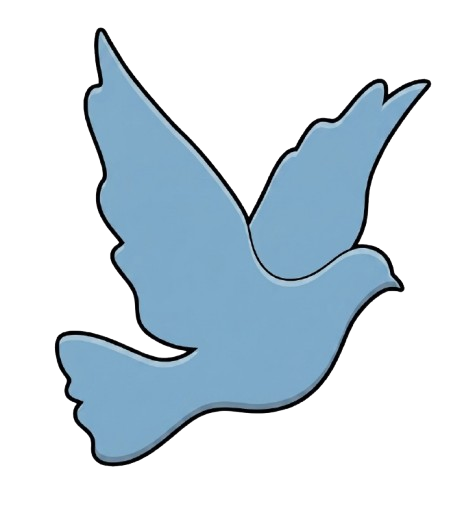
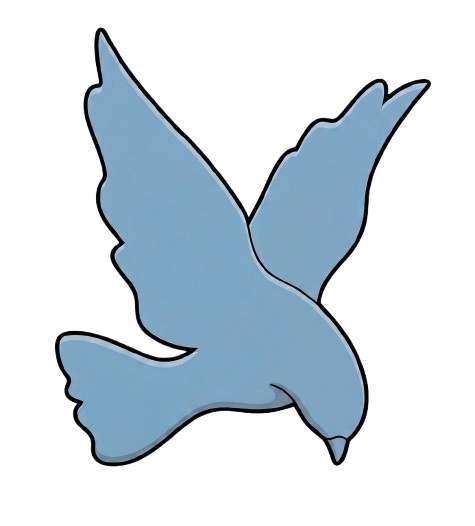
footer

Changed region(s): [[0.56, 0.4563, 0.8547, 0.8821], [0.2063, 0.0608, 0.2358, 0.0913]]

diff --git a/src/components/Footer.tsx b/src/components/Footer.tsx
@@ -1,57 +1,243 @@
-import logo from '../assets/images/logo.png';
+import logo from "../assets/images/logo.png";
+
+const RED = "#C8102E";
+
+function PhoneIcon({ className = "" }: { className?: string }) {
+  return (
+    <svg
+      viewBox="0 0 24 24"
+      fill="none"
+      stroke="currentColor"
+      strokeWidth="2"
+      strokeLinecap="round"
+      strokeLinejoin="round"
+      className={className}
+    >
+      <path d="M22 16.92v3a2 2 0 0 1-2.18 2 19.79 19.79 0 0 1-8.63-3.07 19.5 19.5 0 0 1-6-6 19.79 19.79 0 0 1-3.07-8.67A2 2 0 0 1 4.11 2h3a2 2 0 0 1 2 1.72c.127.96.361 1.903.7 2.81a2 2 0 0 1-.45 2.11L8.09 9.91a16 16 0 0 0 6 6l1.27-1.27a2 2 0 0 1 2.11-.45c.907.339 1.85.573 2.81.7A2 2 0 0 1 22 16.92z" />
+    </svg>
+  );
+}
+
+function MailIcon({ className = "" }: { className?: string }) {
+  return (
+    <svg
+      viewBox="0 0 24 24"
+      fill="none"
+      stroke="currentColor"
+      strokeWidth="2"
+      strokeLinecap="round"
+      strokeLinejoin="round"
+      className={className}
+    >
+      <rect x="2" y="4" width="20" height="16" rx="2" />
+      <path d="m22 6-10 7L2 6" />
+    </svg>
+  );
+}
+
+function ArrowIcon({ className = "" }: { className?: string }) {
+  return (
+    <svg
+      viewBox="0 0 24 24"
+      fill="none"
+      stroke="currentColor"
+      strokeWidth="2.4"
+      strokeLinecap="round"
+      strokeLinejoin="round"
+      className={className}
+    >
+      <path d="M5 12h14M13 6l6 6-6 6" />
+    </svg>
+  );
+}
+
+function XIcon({ className = "" }: { className?: string }) {
+  return (
+    <svg viewBox="0 0 24 24" fill="currentColor" className={className}>
+      <path d="M18.244 2.25h3.308l-7.227 8.26 8.502 11.24H16.17l-5.214-6.817L4.99 21.75H1.68l7.73-8.835L1.254 2.25H8.08l4.713 6.231zm-1.161 17.52h1.833L7.084 4.126H5.117z" />
+    </svg>
+  );
+}
+
+function YoutubeIcon({ className = "" }: { className?: string }) {
+  return (
+    <svg viewBox="0 0 24 24" fill="currentColor" className={className}>
+      <path d="M23.5 6.2a3.02 3.02 0 0 0-2.12-2.14C19.5 3.5 12 3.5 12 3.5s-7.5 0-9.38.56A3.02 3.02 0 0 0 .5 6.2 31.6 31.6 0 0 0 0 12a31.6 31.6 0 0 0 .5 5.8 3.02 3.02 0 0 0 2.12 2.14C4.5 20.5 12 20.5 12 20.5s7.5 0 9.38-.56a3.02 3.02 0 0 0 2.12-2.14A31.6 31.6 0 0 0 24 12a31.6 31.6 0 0 0-.5-5.8ZM9.6 15.6V8.4l6.3 3.6z" />
+    </svg>
+  );
+}
+
+function ShieldIcon({ className = "" }: { className?: string }) {
+  return (
+    <svg
+      viewBox="0 0 24 24"
+      fill="none"
+      stroke="currentColor"
+      strokeWidth="2"
+      strokeLinecap="round"
+      strokeLinejoin="round"
+      className={className}
+    >
+      <path d="M12 22s8-4 8-10V5l-8-3-8 3v7c0 6 8 10 8 10Z" />
+      <path d="m9 12 2 2 4-4" />
+    </svg>
+  );
+}
+
+function LockIcon({ className = "" }: { className?: string }) {
+  return (
+    <svg
+      viewBox="0 0 24 24"
+      fill="none"
+      stroke="currentColor"
+      strokeWidth="2"
+      strokeLinecap="round"
+      strokeLinejoin="round"
+      className={className}
+    >
+      <rect x="4" y="10" width="16" height="10" rx="2" />
+      <path d="M8 10V7a4 4 0 0 1 8 0v3" />
+      <path d="M12 14v2" />
+    </svg>
+  );
+}
+
+const menuLinks = [
+  { label: "Home", href: "#top" },
+  { label: "Campaigns", href: "#campaigns" },
+  { label: "Donate", href: "https://iliberty.org.uk/donate-2/" },
+  { label: "About Us", href: "#about-us" },
+  { label: "Shop", href: "/shop", active: true },
+];
+
+const usefulLinks = [
+  { label: "Stories & Voices", href: "https://iliberty.org.uk/stories-voices/" },
+  { label: "Partnerships", href: "https://iliberty.org.uk/partnerships/" },
+  { label: "Legacy", href: "https://iliberty.org.uk/leave-a-legacy/" },
+  { label: "Privacy Policy", href: "https://iliberty.org.uk/privacy-policy/" },
+  { label: "Contact Us", href: "https://iliberty.org.uk/contact-us/" },
+  { label: "Feedback", href: "https://iliberty.org.uk/feedback-form/" },
+];
 
 export default function Footer() {
   return (
     <footer className="bg-ink text-muted-dark py-16 pb-7">
       <div className="max-w-[1200px] mx-auto px-5 sm:px-8">
-        <div className="grid grid-cols-1 sm:grid-cols-[1.3fr_1fr_1fr] gap-10 sm:gap-12 pb-11 border-b border-paper/10">
+        {/* logo/contact | Menu | Useful Links | CTA */}
+        <div className="grid grid-cols-1 gap-10 pb-11 border-b border-paper/10 sm:grid-cols-2 lg:grid-cols-[1.1fr_0.8fr_0.9fr_1.1fr] lg:gap-8">
           <div>
-            <div className="flex items-center gap-3 mb-3.5">
-              <img src={logo} alt="ILA logo" className="w-9 h-9 object-contain" />
-              <div className="font-serif text-xl text-paper">International Liberty Association</div>
-            </div>
-            <div>
-              <a href="tel:02084523481" className="block text-[14.5px] mb-2 hover:text-gold-bright transition-colors">
+            <img
+              src={logo}
+              alt="International Liberty Association"
+              className="mb-5 h-16 w-16 object-contain"
+            />
+
+            <div className="mb-6">
+              <a
+                href="tel:02084523481"
+                className="mb-2 flex items-center gap-2.5 text-[14.5px] transition-colors hover:text-gold-bright"
+              >
+                <PhoneIcon className="h-4 w-4 shrink-0" />
                 020 8452 3481
               </a>
-              <a href="mailto:info@iliberty.org.uk" className="block text-[14.5px] mb-2 hover:text-gold-bright transition-colors">
+              <a
+                href="mailto:info@iliberty.org.uk"
+                className="flex items-center gap-2.5 text-[14.5px] transition-colors hover:text-gold-bright"
+              >
+                <MailIcon className="h-4 w-4 shrink-0" />
                 info@iliberty.org.uk
               </a>
             </div>
+
+            <div className="flex items-center gap-3">
+              <div className="flex h-14 w-14 flex-col items-center justify-center rounded-full border border-paper/25 text-center leading-none">
+                <ShieldIcon className="mb-1 h-4 w-4" />
+                <span className="text-[7px] font-bold tracking-tight">FR</span>
+                <span className="text-[5.5px] font-semibold tracking-tight">REGULATOR</span>
+              </div>
+              <div className="flex h-14 w-14 flex-col items-center justify-center rounded-full border border-paper/25 text-center leading-none">
+                <LockIcon className="mb-1 h-4 w-4" />
+                <span className="text-[7px] font-bold tracking-tight">secure</span>
+                <span className="text-[5.5px] font-semibold tracking-tight">GlobalSign</span>
+              </div>
+            </div>
           </div>
 
           <div>
-            <h5 className="text-[13px] text-paper font-semibold mb-4">Useful links</h5>
-            <ul className="list-none p-0 m-0 flex flex-col gap-2.5">
-              <li><a href="https://iliberty.org.uk/stories-voices/" className="text-[14.5px] hover:text-gold-bright transition-colors">Stories &amp; Voices</a></li>
-              <li><a href="https://iliberty.org.uk/partnerships/" className="text-[14.5px] hover:text-gold-bright transition-colors">Partnerships</a></li>
-              <li><a href="https://iliberty.org.uk/leave-a-legacy/" className="text-[14.5px] hover:text-gold-bright transition-colors">Legacy</a></li>
+            <h5 className="mb-4 text-[13px] font-semibold text-paper">Menu</h5>
+            <ul className="m-0 flex list-none flex-col gap-2.5 p-0">
+              {menuLinks.map((link) => (
+                <li key={link.label}>
+                  <a
+                    href={link.href}
+                    className={`inline-block text-[14.5px] transition-colors hover:text-gold-bright ${
+                      link.active ? "border-b pb-0.5" : "border-b border-transparent pb-0.5"
+                    }`}
+                    style={link.active ? { borderColor: RED } : undefined}
+                  >
+                    {link.label}
+                  </a>
+                </li>
+              ))}
             </ul>
           </div>
 
           <div>
-            <h5 className="text-[13px] text-paper font-semibold mb-4">Support</h5>
-            <ul className="list-none p-0 m-0 flex flex-col gap-2.5">
-              <li><a href="https://iliberty.org.uk/contact-us/" className="text-[14.5px] hover:text-gold-bright transition-colors">Contact us</a></li>
-              <li><a href="https://iliberty.org.uk/feedback-form/" className="text-[14.5px] hover:text-gold-bright transition-colors">Feedback</a></li>
-              <li><a href="https://iliberty.org.uk/privacy-policy/" className="text-[14.5px] hover:text-gold-bright transition-colors">Privacy policy</a></li>
+            <h5 className="mb-4 text-[13px] font-semibold text-paper">Useful Links</h5>
+            <ul className="m-0 flex list-none flex-col gap-2.5 p-0">
+              {usefulLinks.map((link) => (
+                <li key={link.label}>
+                  <a href={link.href} className="text-[14.5px] transition-colors hover:text-gold-bright">
+                    {link.label}
+                  </a>
+                </li>
+              ))}
             </ul>
+          </div>
+
+          <div>
+            <h5 className="mb-4 text-[13px] font-semibold text-paper">You Can Help Today</h5>
+            <p className="mb-5 text-[14.5px] leading-relaxed">
+              Help raise awareness within the British public of the human rights abuses of the Iranian regime
+            </p>
+
+            {/* Donate — same fill + arrow-rotate hover as navbar */}
+            <a
+              href="https://iliberty.org.uk/donate-2/"
+              className="group relative mb-4 inline-flex w-full items-center justify-center gap-2 overflow-hidden rounded-full bg-[#C8102E] py-3 text-[16px] font-semibold text-white transition-colors duration-300"
+            >
+              <span className="absolute inset-x-0 bottom-0 h-0 bg-black/15 transition-all duration-500 ease-out group-hover:h-full" />
+              <span className="relative z-10">Donate</span>
+              <span className="relative z-10 flex h-6 w-6 items-center justify-center rounded-full bg-white/20 transition-transform duration-300 group-hover:rotate-45">
+                <ArrowIcon className="h-3.5 w-3.5" />
+              </span>
+            </a>
+
+            <div className="inline-flex items-center gap-1.5 rounded-md bg-white px-3 py-2">
+              <span className="text-[15px] font-bold italic text-[#003087]">
+                Pay<span className="text-[#009cde]">Pal</span>
+              </span>
+              <span className="text-[9px] font-semibold text-ink/50">VISA &nbsp;MC&nbsp; AMEX</span>
+            </div>
           </div>
         </div>
 
-        <div className="flex flex-wrap justify-between items-center gap-4 pt-6 text-[13px]">
-          <span>Copyright © 2026 International Liberty Association — All rights reserved.</span>
-          <div className="flex gap-4">
-            <a href="https://x.com/ilibertyassoc" className="hover:text-gold-bright transition-colors">X</a>
-            <a href="https://www.instagram.com/iliberty.a/" className="hover:text-gold-bright transition-colors">Instagram</a>
+        <div className="flex flex-wrap items-center justify-between gap-4 pt-6 text-[13px]">
+          <span>Copyright © 2026, International Liberty Association – All Rights Reserved.</span>
+          <div className="flex gap-2">
             <a
-              href="https://www.facebook.com/people/International-Liberty-Association/61582798858498/"
-              className="hover:text-gold-bright transition-colors"
+              href="https://x.com/ilibertyassoc"
+              aria-label="X"
+              className="flex h-8 w-8 items-center justify-center rounded-md bg-[#5B8DBE]/25 text-paper transition-colors hover:bg-[#5B8DBE]/45"
             >
-              Facebook
+              <XIcon className="h-3.5 w-3.5" />
             </a>
-            <a href="https://www.youtube.com/channel/UCNkLGpFt1-Rgq7m6GHUyI3A?reload=9" className="hover:text-gold-bright transition-colors">
-              YouTube
+            <a
+              href="https://www.youtube.com/channel/UCNkLGpFt1-Rgq7m6GHUyI3A?reload=9"
+              aria-label="YouTube"
+              className="flex h-8 w-8 items-center justify-center rounded-md bg-[#5B8DBE]/25 text-paper transition-colors hover:bg-[#5B8DBE]/45"
+            >
+              <YoutubeIcon className="h-3.5 w-3.5" />
             </a>
           </div>
         </div>

diff --git a/src/components/Newsletter.tsx b/src/components/Newsletter.tsx
@@ -126,14 +126,6 @@ export default function Newsletter() {
 
         <div className="relative">
           <motion.div
-            initial={{ scaleX: 0, opacity: 0 }}
-            whileInView={{ scaleX: 1, opacity: 1 }}
-            viewport={{ once: true, amount: 0.6 }}
-            transition={{ duration: 0.9, ease: [0.16, 1, 0.3, 1] }}
-            className="border-t-2 border-dashed border-ink/25"
-          />
-
-          <motion.div
             initial={{ opacity: 0, y: -16, scale: 0.85 }}
             whileInView={{
               opacity: 1,
@@ -152,7 +144,7 @@ export default function Newsletter() {
                 delay: 0.7,
               },
             }}
-            className="absolute left-1/2 top-0 z-20 -translate-x-1/2 -translate-y-1/2"
+            className="absolute left-1/2 top-0 z-20 -translate-x-1/2 -translate-y-[35%]"
           >
             <img
               src={dove}
